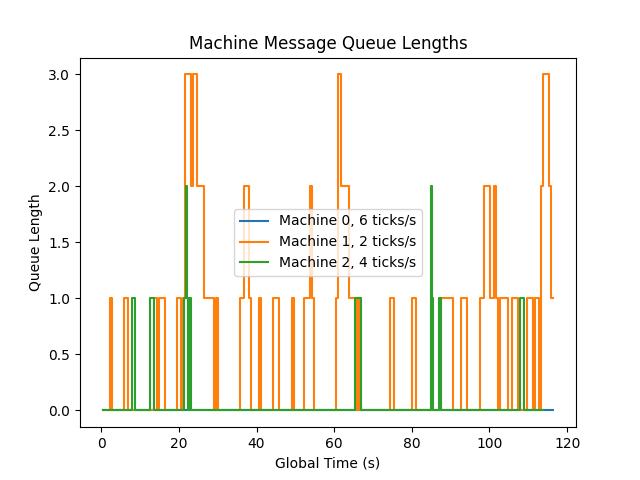
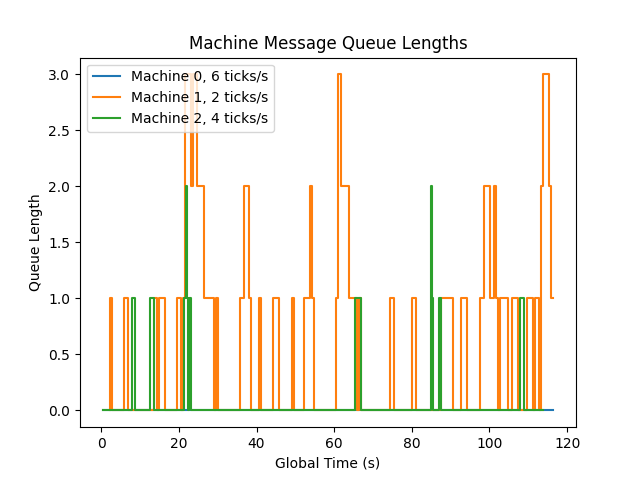
some more runs

Changed region(s): [[0.125, 0.125, 0.4375, 0.2812], [0.4375, 0.4375, 0.6562, 0.5938], [0.375, 0.4375, 0.4062, 0.5938]]

diff --git a/process.py b/process.py
@@ -14,6 +14,12 @@ N_PROCESS = 3
 MESSAGE_SIZE = 4
 LOG_NAME = "LOG"
 
+# change these constants to try different variants, e.g. differences in internal tick rates/probability of internal events
+TICK_RANGE = [1, 6]
+FIXED_TICKS = True
+TICKS = [1, 5, 6]
+INTERNAL_EVENT_CAP = 25
+
 # ports for each process' server
 ports = {0: 21522, 1: 21523, 2: 21524}
 
@@ -77,14 +83,14 @@ def process_messages(pid: int, sleepDuration: float):
                 message = messageQueue[pid].pop(0)
                 # logical clock IR2, then IR1
                 clock = max(message, clock) + 1
-                print(f"[{pid}] received message, updated clock value to {clock}")
+                print(f"[{pid}] processed message, updated clock value to {clock}")
                 logFile.write(f"[MESSAGE RECEIVED] | Global Time - {datetime.now().strftime('%H:%M:%S.%f')} | Queue Length - {len(messageQueue[pid])} | Clock Time - {clock}\n")
                 # the operation was reading the message, time to sleep again after flushing
                 logFile.flush()
                 continue 
 
             # generate random number to decide what event will occur
-            num = randint(1, 10)
+            num = randint(1, INTERNAL_EVENT_CAP)
             print(f"[{pid}] generated number {num}")
 
             # send to first, second or both of the other processes depending on number generated
@@ -202,7 +208,9 @@ def init_process(pid: int):
     threads.append(server)
 
     # randomly generate clock speed for process in terms of number of ticks per second
-    clockTicks = randint(1, 6)
+    clockTicks = randint(TICK_RANGE[0], TICK_RANGE[1])
+    if FIXED_TICKS:
+        clockTicks = TICKS[pid]
     processor = threading.Thread(target=process_messages, args=(pid, 1/clockTicks))
     processor.start()
     threads.append(processor)

diff --git a/viz.py b/viz.py
@@ -90,7 +90,7 @@ if __name__ == "__main__":
         xs = [x[0] for x in process_clock_updates]
         ys = [x[1] for x in process_clock_updates]
         plt.plot(xs, ys, label=f"Machine {i}, {ticks[i]} ticks/s")
-    plt.legend()
+    plt.legend(loc=2)
     plt.xlabel("Global Time (s)")
     plt.ylabel("Logical Clock Value")
     plt.title("Machine Logical Clock Values")
@@ -103,7 +103,7 @@ if __name__ == "__main__":
         xs = [x[0] for x in queue_lengths]
         ys = [x[1] for x in queue_lengths]
         plt.step(xs, ys, label=f"Machine {i}, {ticks[i]} ticks/s")
-    plt.legend()
+    plt.legend(loc=2)
     plt.xlabel("Global Time (s)")
     plt.ylabel("Queue Length")
     plt.title("Machine Message Queue Lengths")
